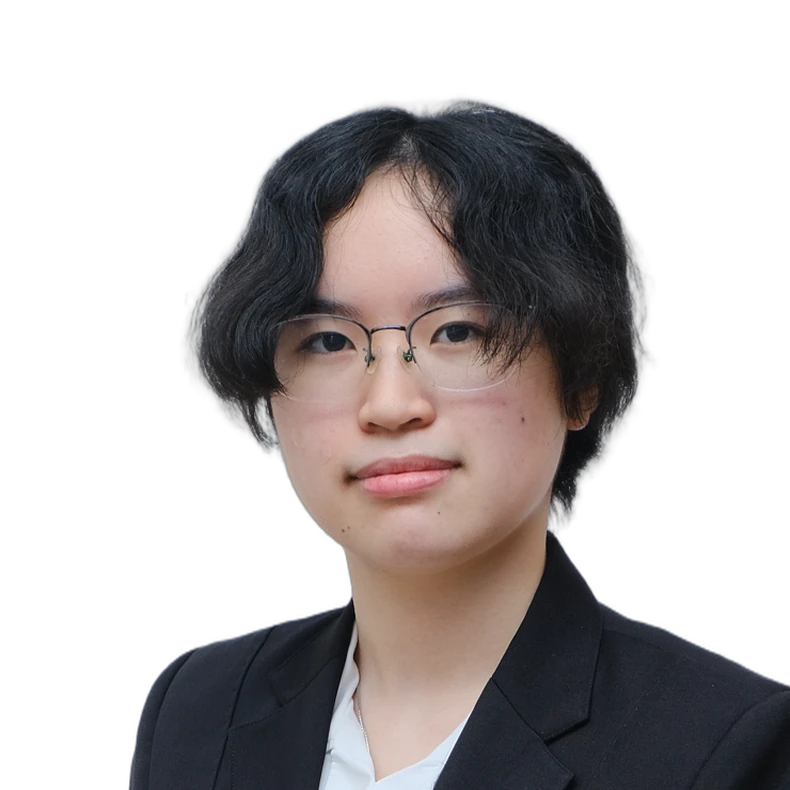
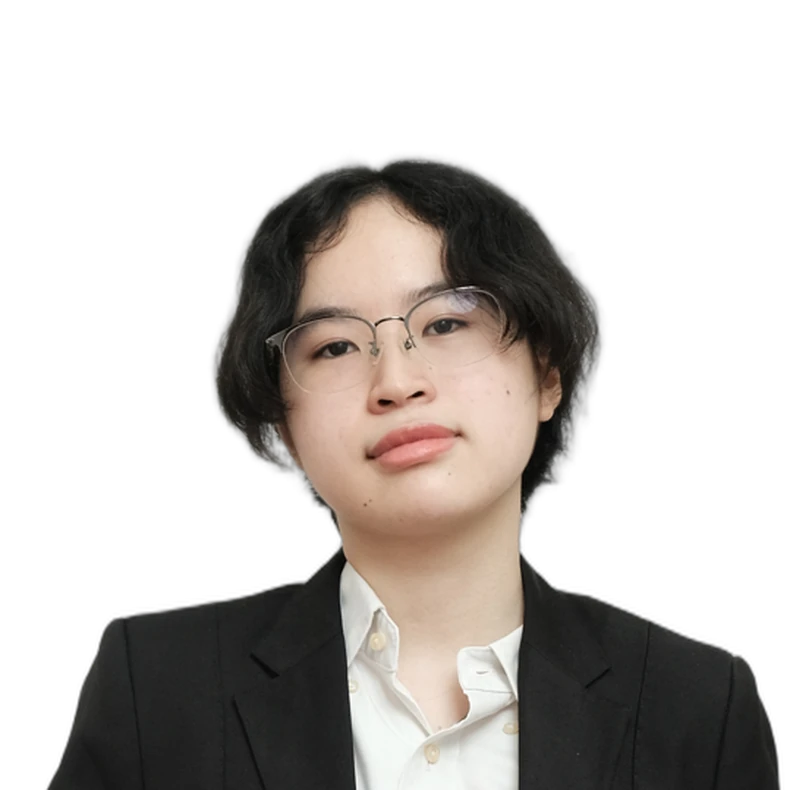
fix: update Gayatri photo and add Hilmy LinkedIn in 2026/2027 cabinet

diff --git a/src/components/modules/aboutus/BoD.ts b/src/components/modules/aboutus/BoD.ts
@@ -158,7 +158,7 @@ const BoD = {
       {
         name: "Hilmy Herismawati",
         role: "Project Manager",
-        linkedin: "",
+        linkedin: "https://www.linkedin.com/in/hilmyherismawati/",
         src: "/img/aboutus/BoD/2627/manager-project-1.webp",
       },
       {
